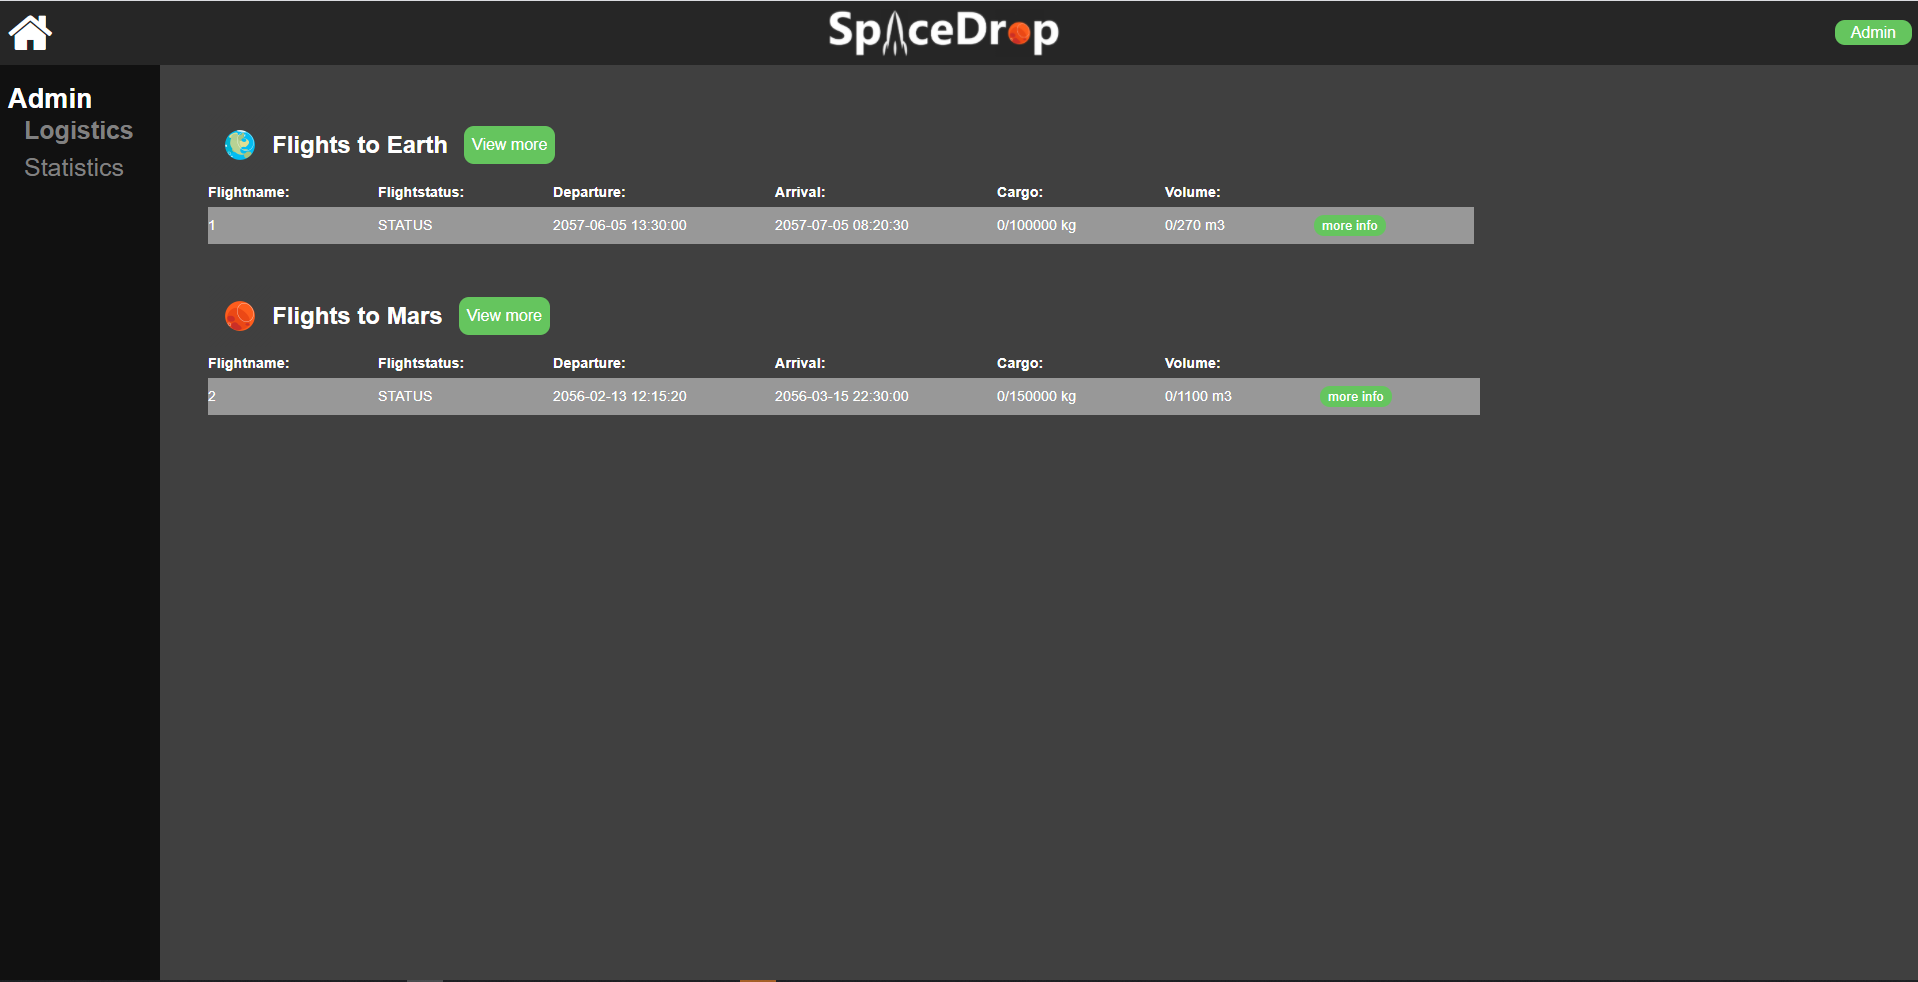
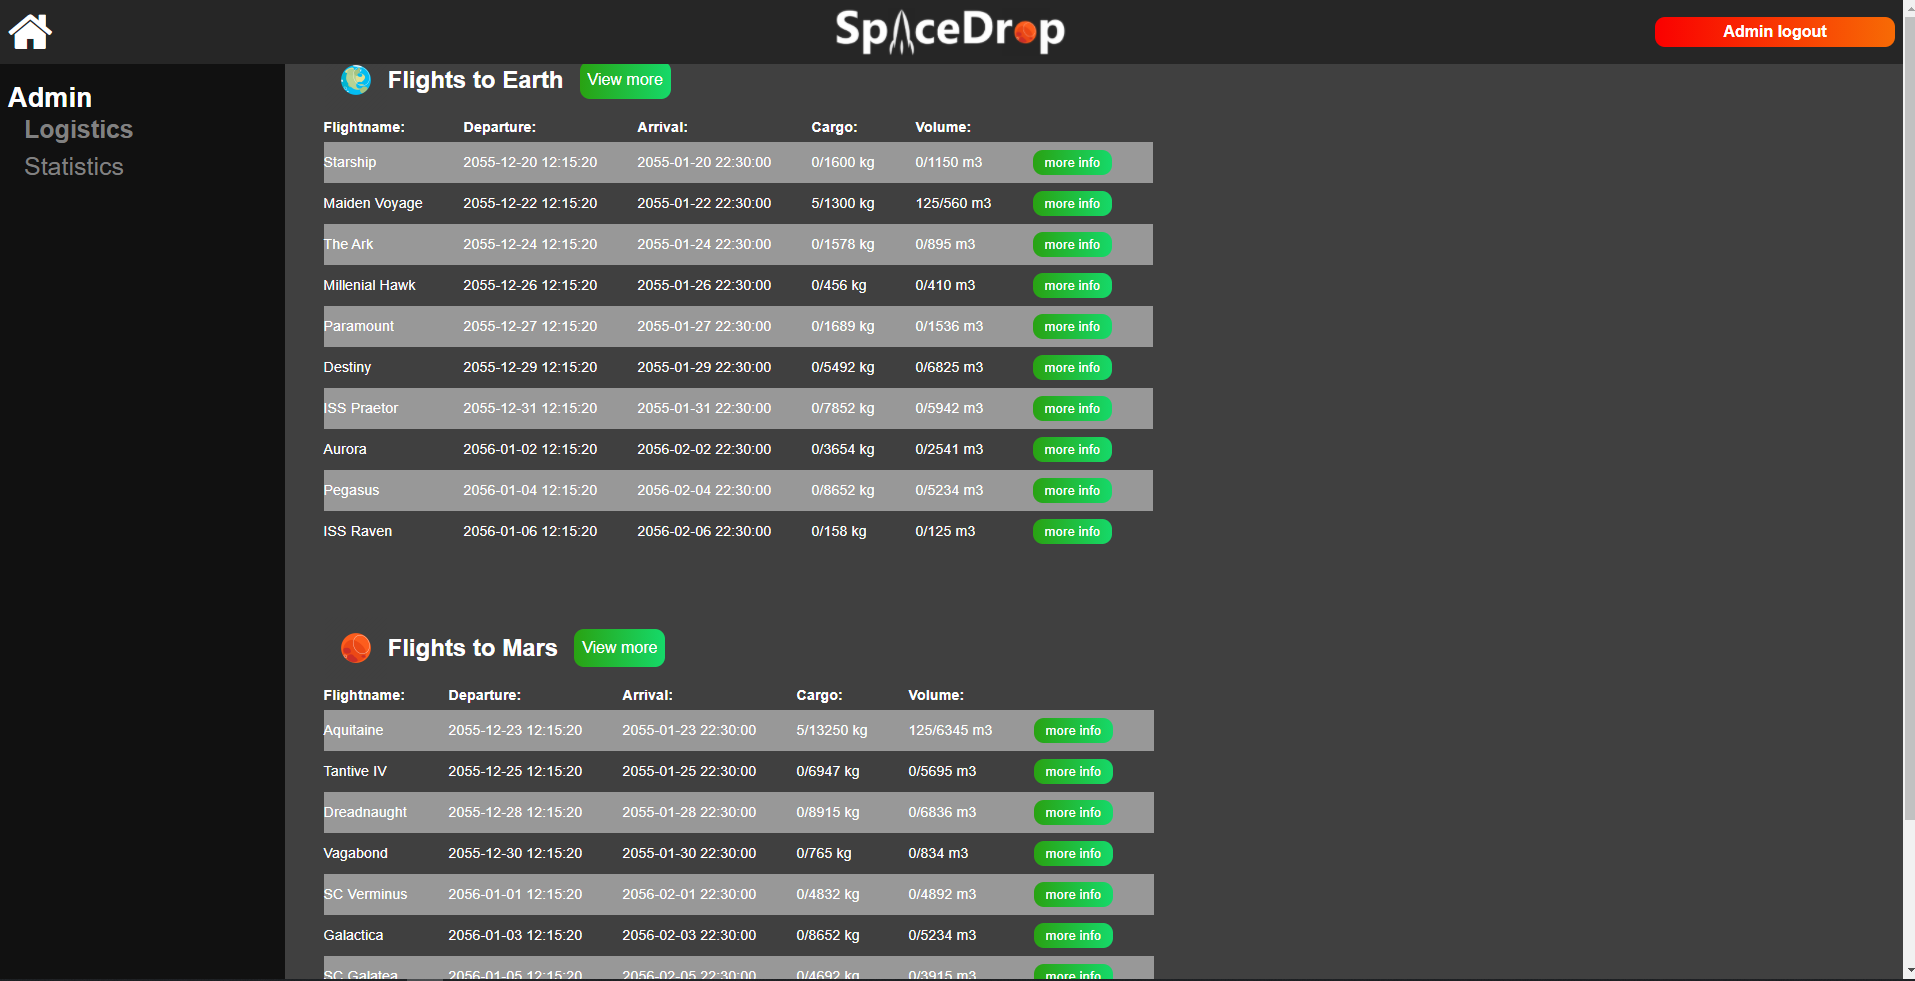
finish readme

diff --git a/README.md b/README.md
@@ -6,8 +6,11 @@
   * A user can login to his account
   * A user can login with oAuth (google)
   * A user can see his account info
+  * A user can edit his account info
   * A user can see his orders
-  * A user can see what flights are available (ordering not yet impemented)
+  * A user can track his orders
+  * A user can search to the flights with the route optimizer
+  * A user can reserve space on a flight
 * Admins:
   * An admin can login to his account
   * An admin can see an overview of all flights
@@ -76,8 +79,8 @@
 * Adminhome page:
   * On this page the admin can see an overview of the next future flights, when he clicks on the more info page he gets redirected to the adminflightdetails page. When he clicks on view more next to the planet title, Only all the flights to that planet get displayed. On the left side there is a sidenav with a button to the statistics(not impemented).
 ![picture](images/adminflights.png)
+![picture](images/adminflights2.png)
 
 * adminflightdetails page:
-  * On this page the admin can see an table with all the flight details, underneat this there is an overview of all orders placed on this flight.
-  * IMPORTANT: if you want to go admin pages you need to do this via the url: go to page adminFlightDetails.html
-  ![picture](images/adminflightsdetails.png)
+  * On this page the admin can see an table with all the flight details, underneath this there is an overview of all orders placed on this flight.
+  ![picture](images/adminflightdetails.png)
